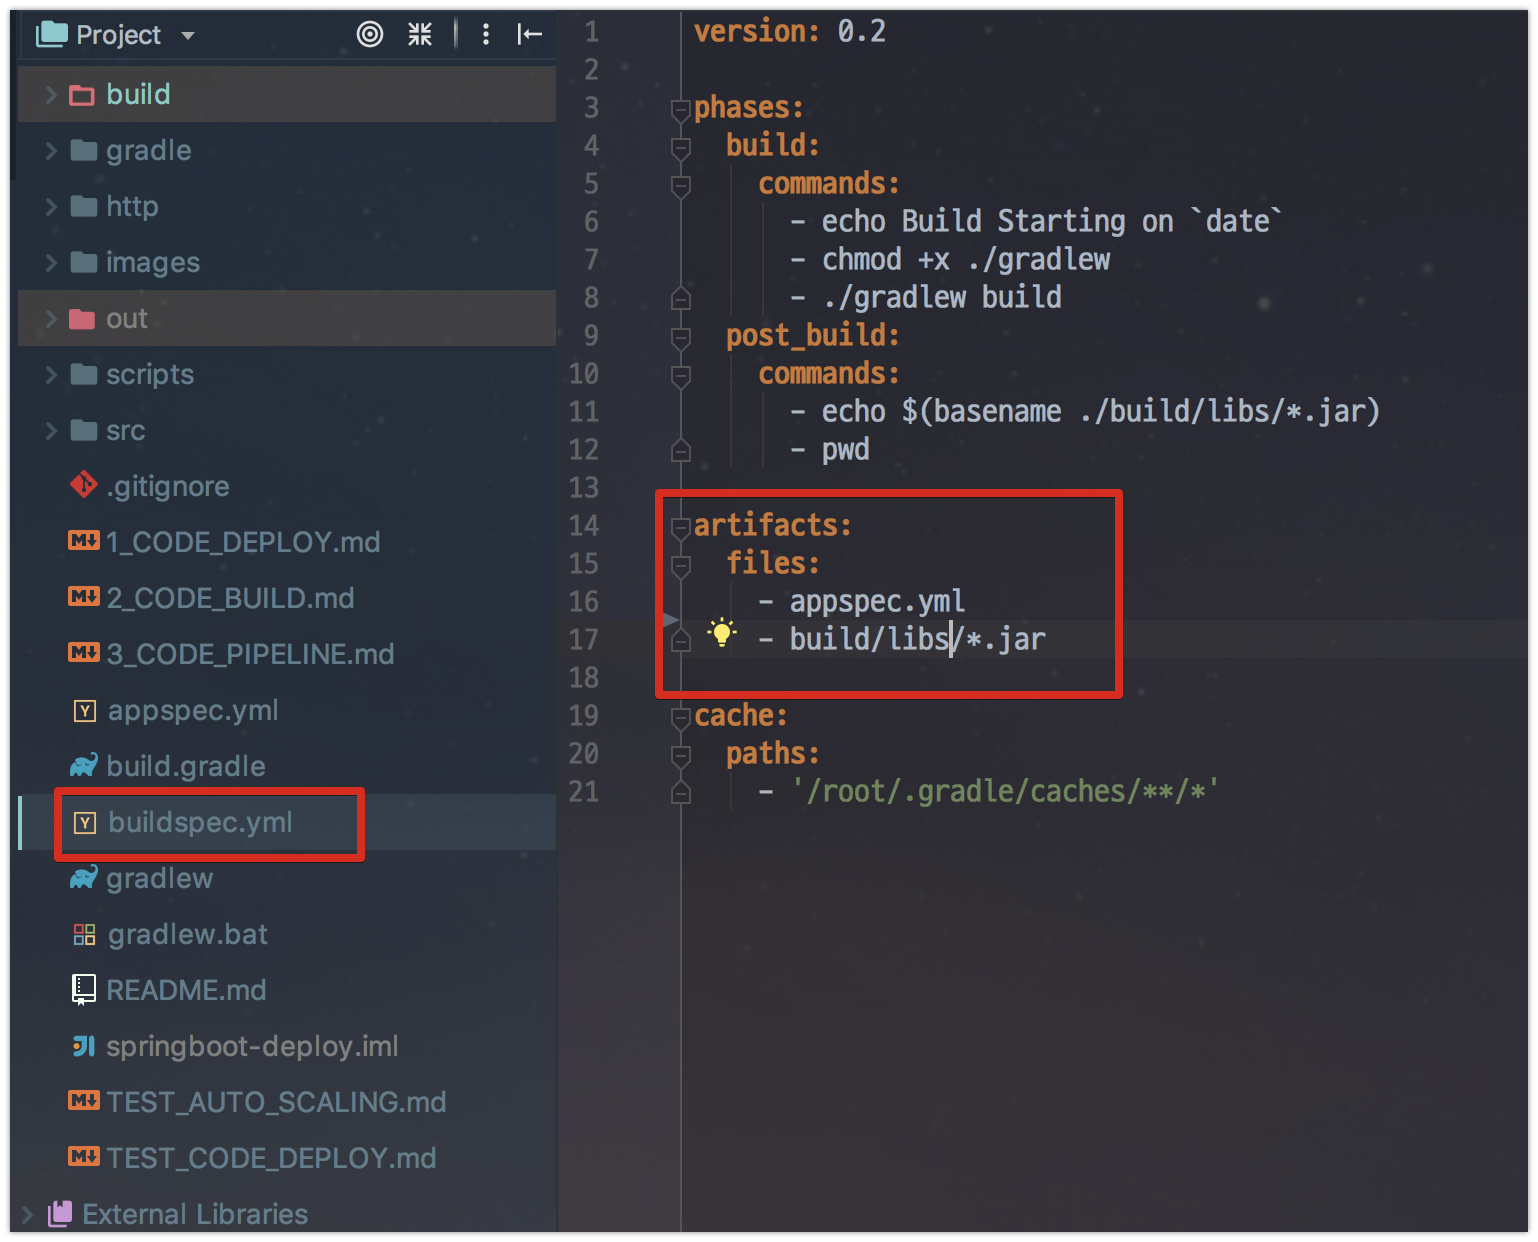
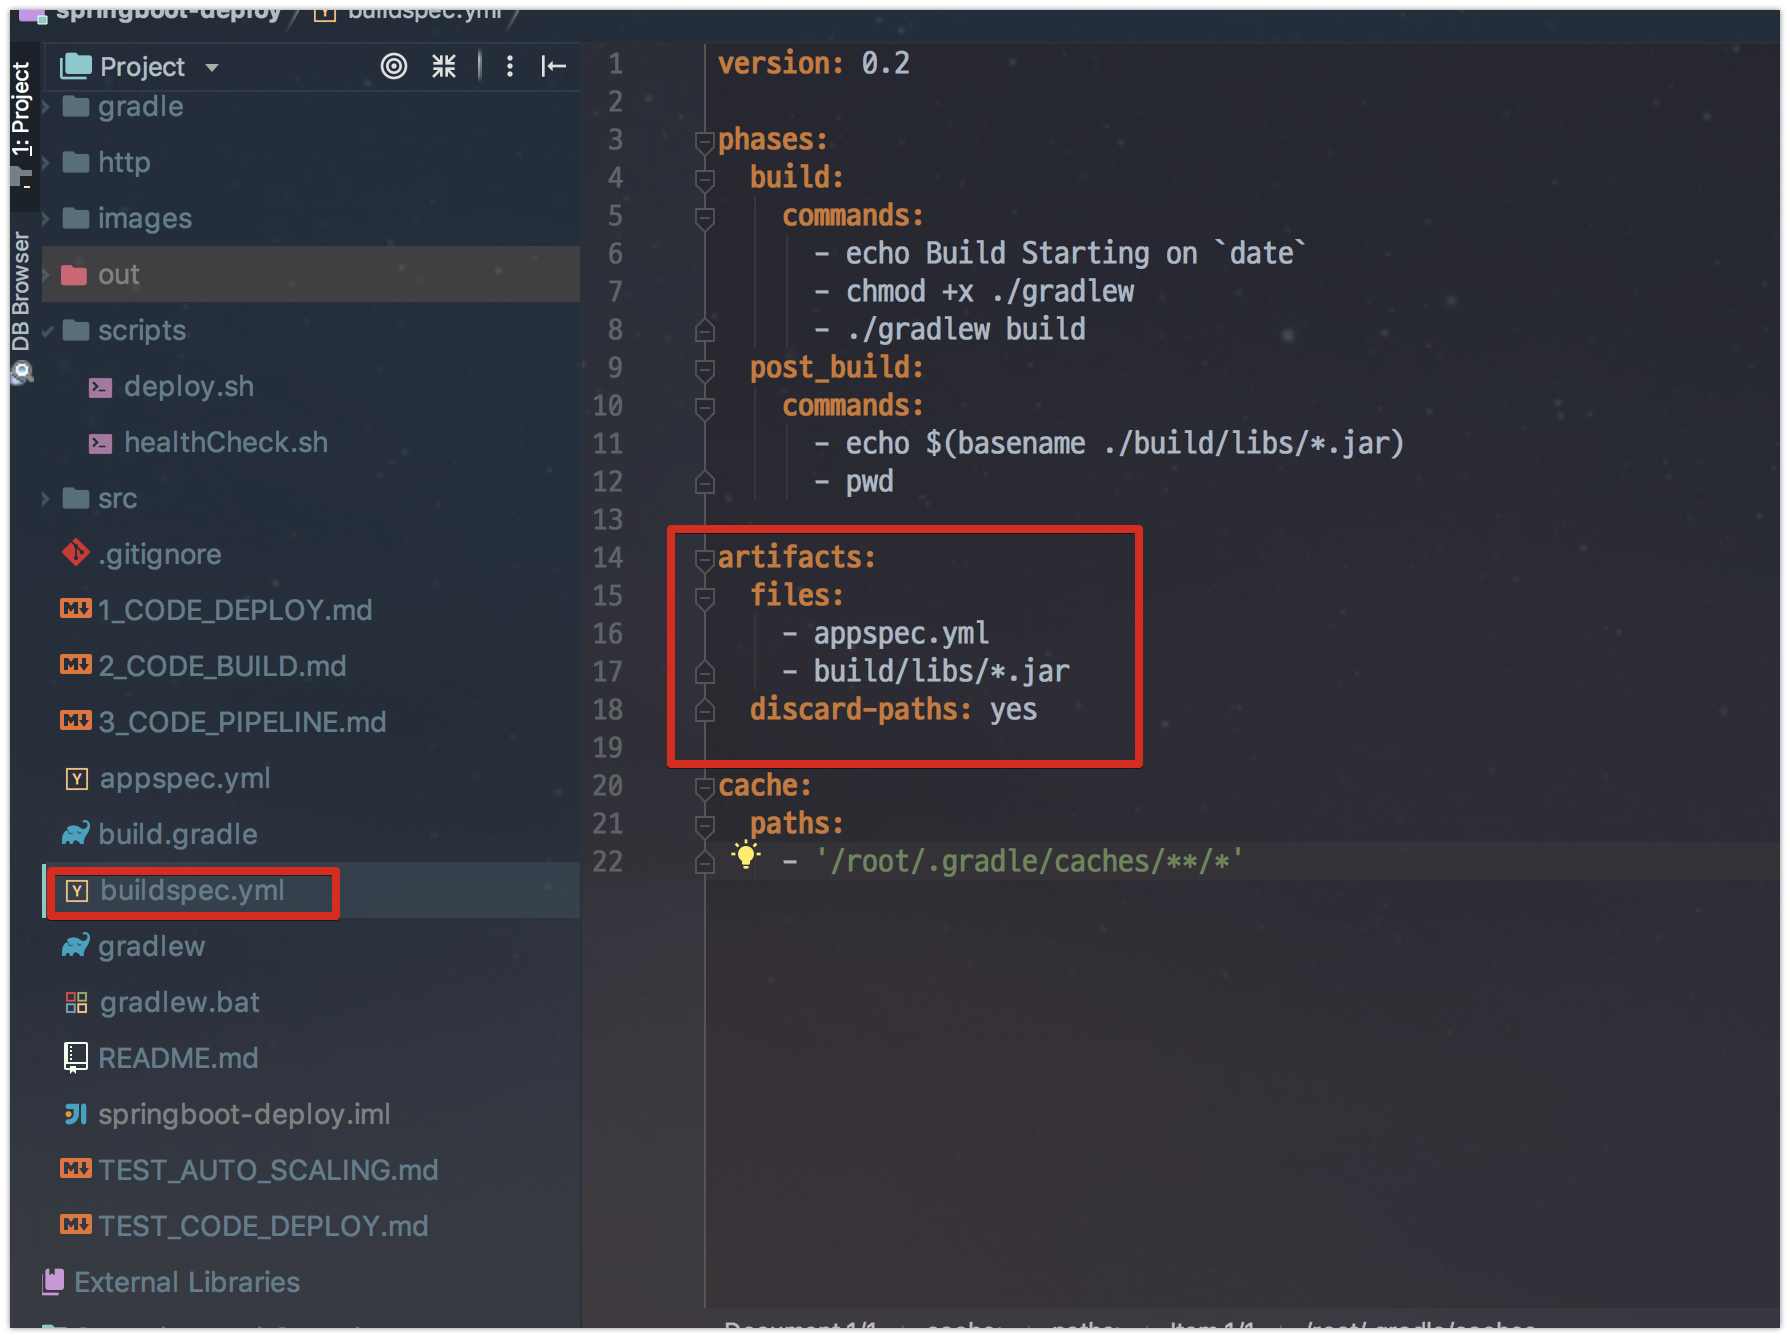
[Code Pipeline] build.gradle에 jar명 강제지정

Changed region(s): [[0.0, 0.0, 0.3433, 1.0], [0.3121, 0.0, 0.9051, 0.6731], [0.4681, 0.9791, 0.4993, 1.0]]

diff --git a/3_CODE_PIPELINE.md b/3_CODE_PIPELINE.md
@@ -1,8 +1,8 @@
 # 3. AWS Code Pipeline으로 배포하기
 
-[지난 시간](http://jojoldu.tistory.com/281)에 Code Deploy 사용하는 방법에 대해 설명드렸습니다.  
-  
+이번 시간에는 앞서 진행된 [Code Deploy](http://jojoldu.tistory.com/281), [Code Build](http://jojoldu.tistory.com/282)를 Code Pipeline에서 통합해서 사용하는 방법을 소개 드리겠습니다.
 
+> 모든 코드는 [Github](https://github.com/jojoldu/springboot-deploy)에 있으니 참고 바랍니다
 
 ## 3-1. Code Pipeline 구축하기
 
@@ -61,8 +61,10 @@ sudo rm -rf ~/build/*
 ![codepipeline13](./images/codepipeline/codepipeline13.png)
 
 자 현재 ```~/build/``` 에는 아무것도 없습니다.  
-배포가 완료되면 지정된 파일들이 있겠죠?  
-배포가 진행되기 전에 프로젝트의 ```buildspec.yml```을 조금 수정하겠습니다.
+배포가 완료되면 배포 파일들이 있겠죠?  
+그럼 배포를 진행해볼텐데요.  
+그전에! Code Build & Code Deploy을 연계하기 위해 각각의 yml들을 수정하겠습니다.  
+먼저  ```buildspec.yml```을 수정하겠습니다.
 
 ![codepipeline14](./images/codepipeline/codepipeline14.png)
 
@@ -84,8 +86,70 @@ artifacts:
   files:
     - appspec.yml
     - build/libs/*.jar
+  discard-paths: yes
 
 cache:
   paths:
     - '/root/.gradle/caches/**/*'
 ```
+
+여기서 변경된건 2가지입니다.
+
+* artifacts.files
+  * S3로 업로드할 대상을 지정합니다.
+  * 여기서 지정된 파일들이 zip파일로 되어 S3로 업로드 됩니다.
+  * jar외에 appspec.yml도 추가된 이유는, Code Deploy때문입니다.
+  * **Code Build가 끝난후, Code Deploy를 실행시키기 위해** 빌드 파일 목록에 appspec.yml도 추가해야만 합니다.
+* artifacts.discard-paths
+  * 파일의 Path를 버리고 파일만 가져갈지를 선택합니다.
+  * 예)```build/libs/*.jar```
+      * 디폴트: ```/home/ec2-user/build/build/libs/springboot-deploy.jar```가 생성
+      * ```yes:```: ```/home/ec2-user/build/springboot-deploy.jar```로 생성
+      * yes로 할 경우엔 해당 파일만 바라보기 때문
+
+Code Deploy 배포 스펙을 결정하는 appspec.yml로 수정합니다.
+
+![codepipeline15](./images/codepipeline/codepipeline15.png)
+
+```yml
+version: 0.0
+os: linux
+files:
+  - source:  /
+    destination: /home/ec2-user/build/
+
+permissions:
+  - object: /
+    pattern: "**"
+    owner: ec2-user
+    group: ec2-user
+```
+
+여기서 추가된건 1가지입니다.  
+바로 ```permissions```입니다.  
+이게 없다면 code deploy로 전달되는 파일들의 **사용자/그룹이 모두 root**로 됩니다.  
+ec2의 기본 사용자가 ec2-user이기 때문에 배포파일들도 모두 ec2-user에 권한이 있도록 변경합니다.  
+자 그럼 이제 Code Pipeline으로 배포를 해보겠습니다.  
+
+![codepipeline16](./images/codepipeline/codepipeline16.png)
+
+Code Deploy까지 성공적으로 끝나면 본인의 EC2로 접속해서 build 디렉토리에 배포파일들이 있는지 확인해봅니다.
+
+![codepipeline17](./images/codepipeline/codepipeline17.png)
+
+ec2-user 사용자로 appspec.yml과 jar파일이 있는것이 확인됩니다!  
+여기서 한가지 이상한게 있는데요.  
+jar명이 springboot-deploy (프로젝트명)이 아닌 **src로 되어있는 것**입니다.  
+이유를 파악하기 위해 Code Build 로그를 보겠습니다.
+
+![codepipeline18](./images/codepipeline/codepipeline18.png)
+
+Code Build가 Github에서 바로 코드를 가져올때와 달리, Code Pipeline에서 Code Build로 소스코드를 넣어서 실행할때는 **src라는 임시 디렉토리**를 생성해서 실행합니다.  
+Gradle에서 별도로 jar명을 지정안했기 때문에 프로젝트 **코드가 있는 디렉토리명이 jar명**이 되어 src라는 jar가 생성된 것입니다.  
+이를 해결하기 위해 **build.gradle**에 jar명을 강제지정하겠습니다.  
+
+```groovy
+archivesBaseName = 'springboot-deploy'
+```
+
+![codepipeline19](./images/codepipeline/codepipeline19.png)
